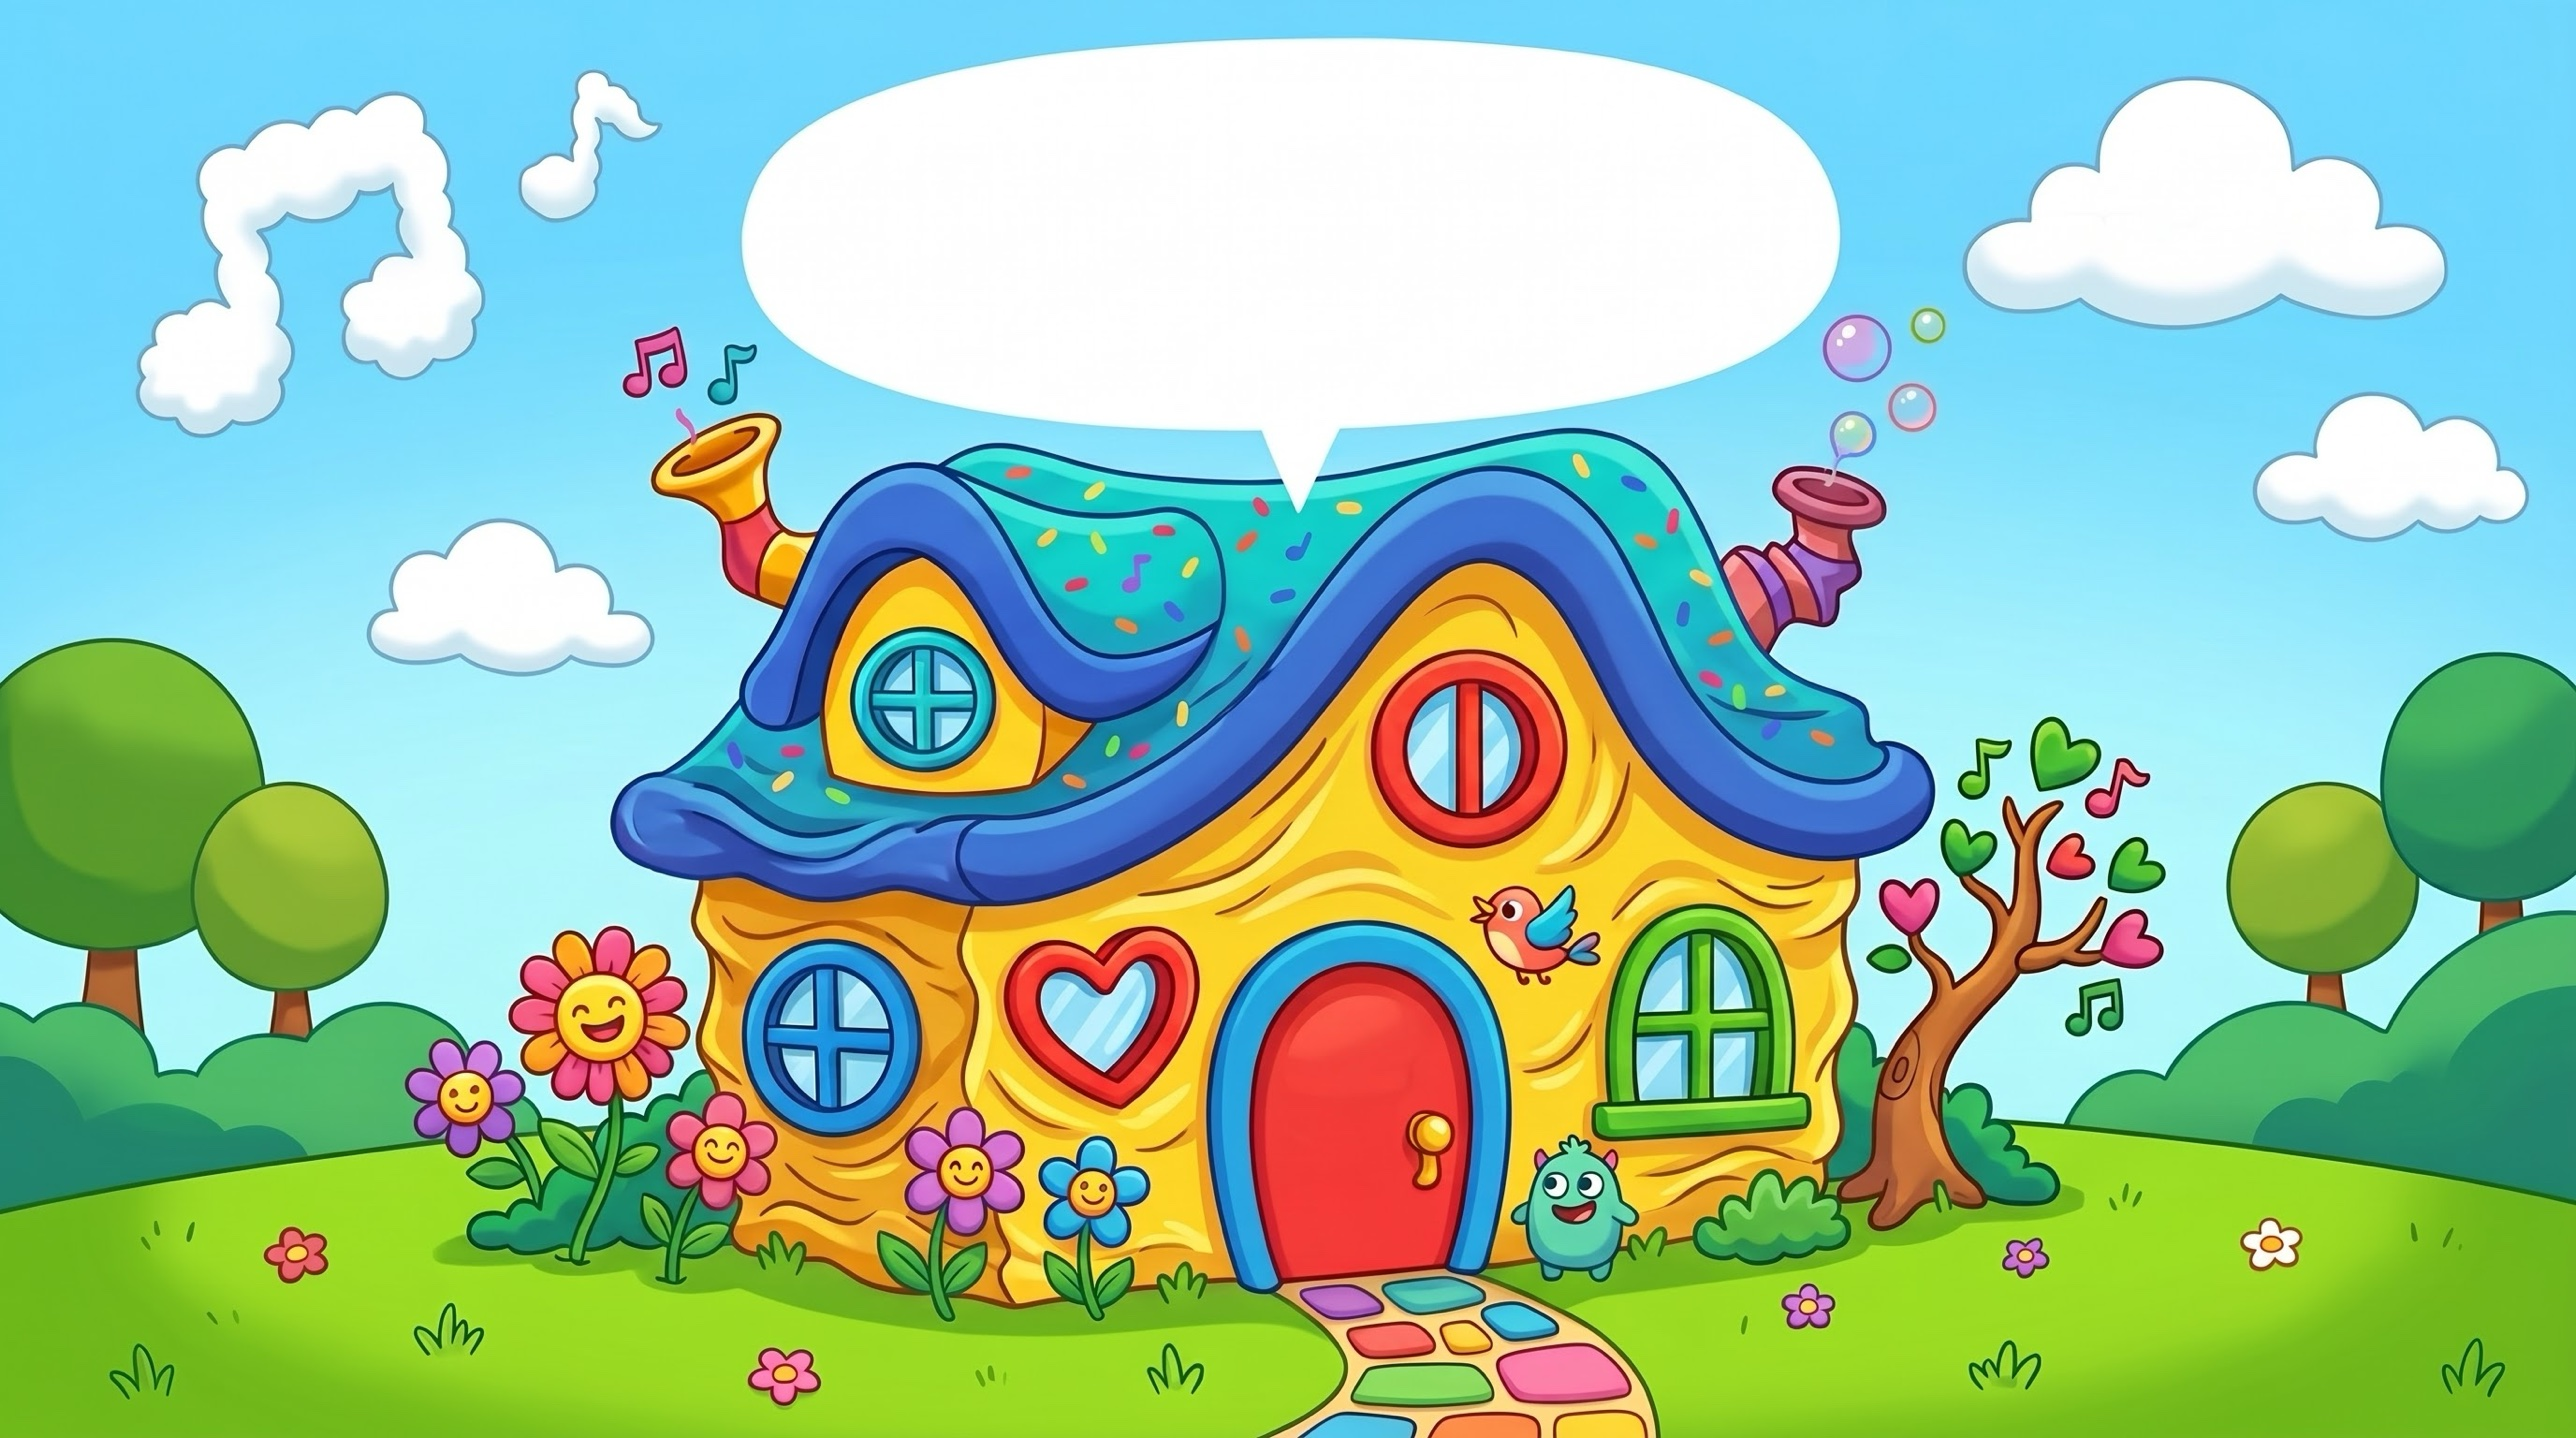
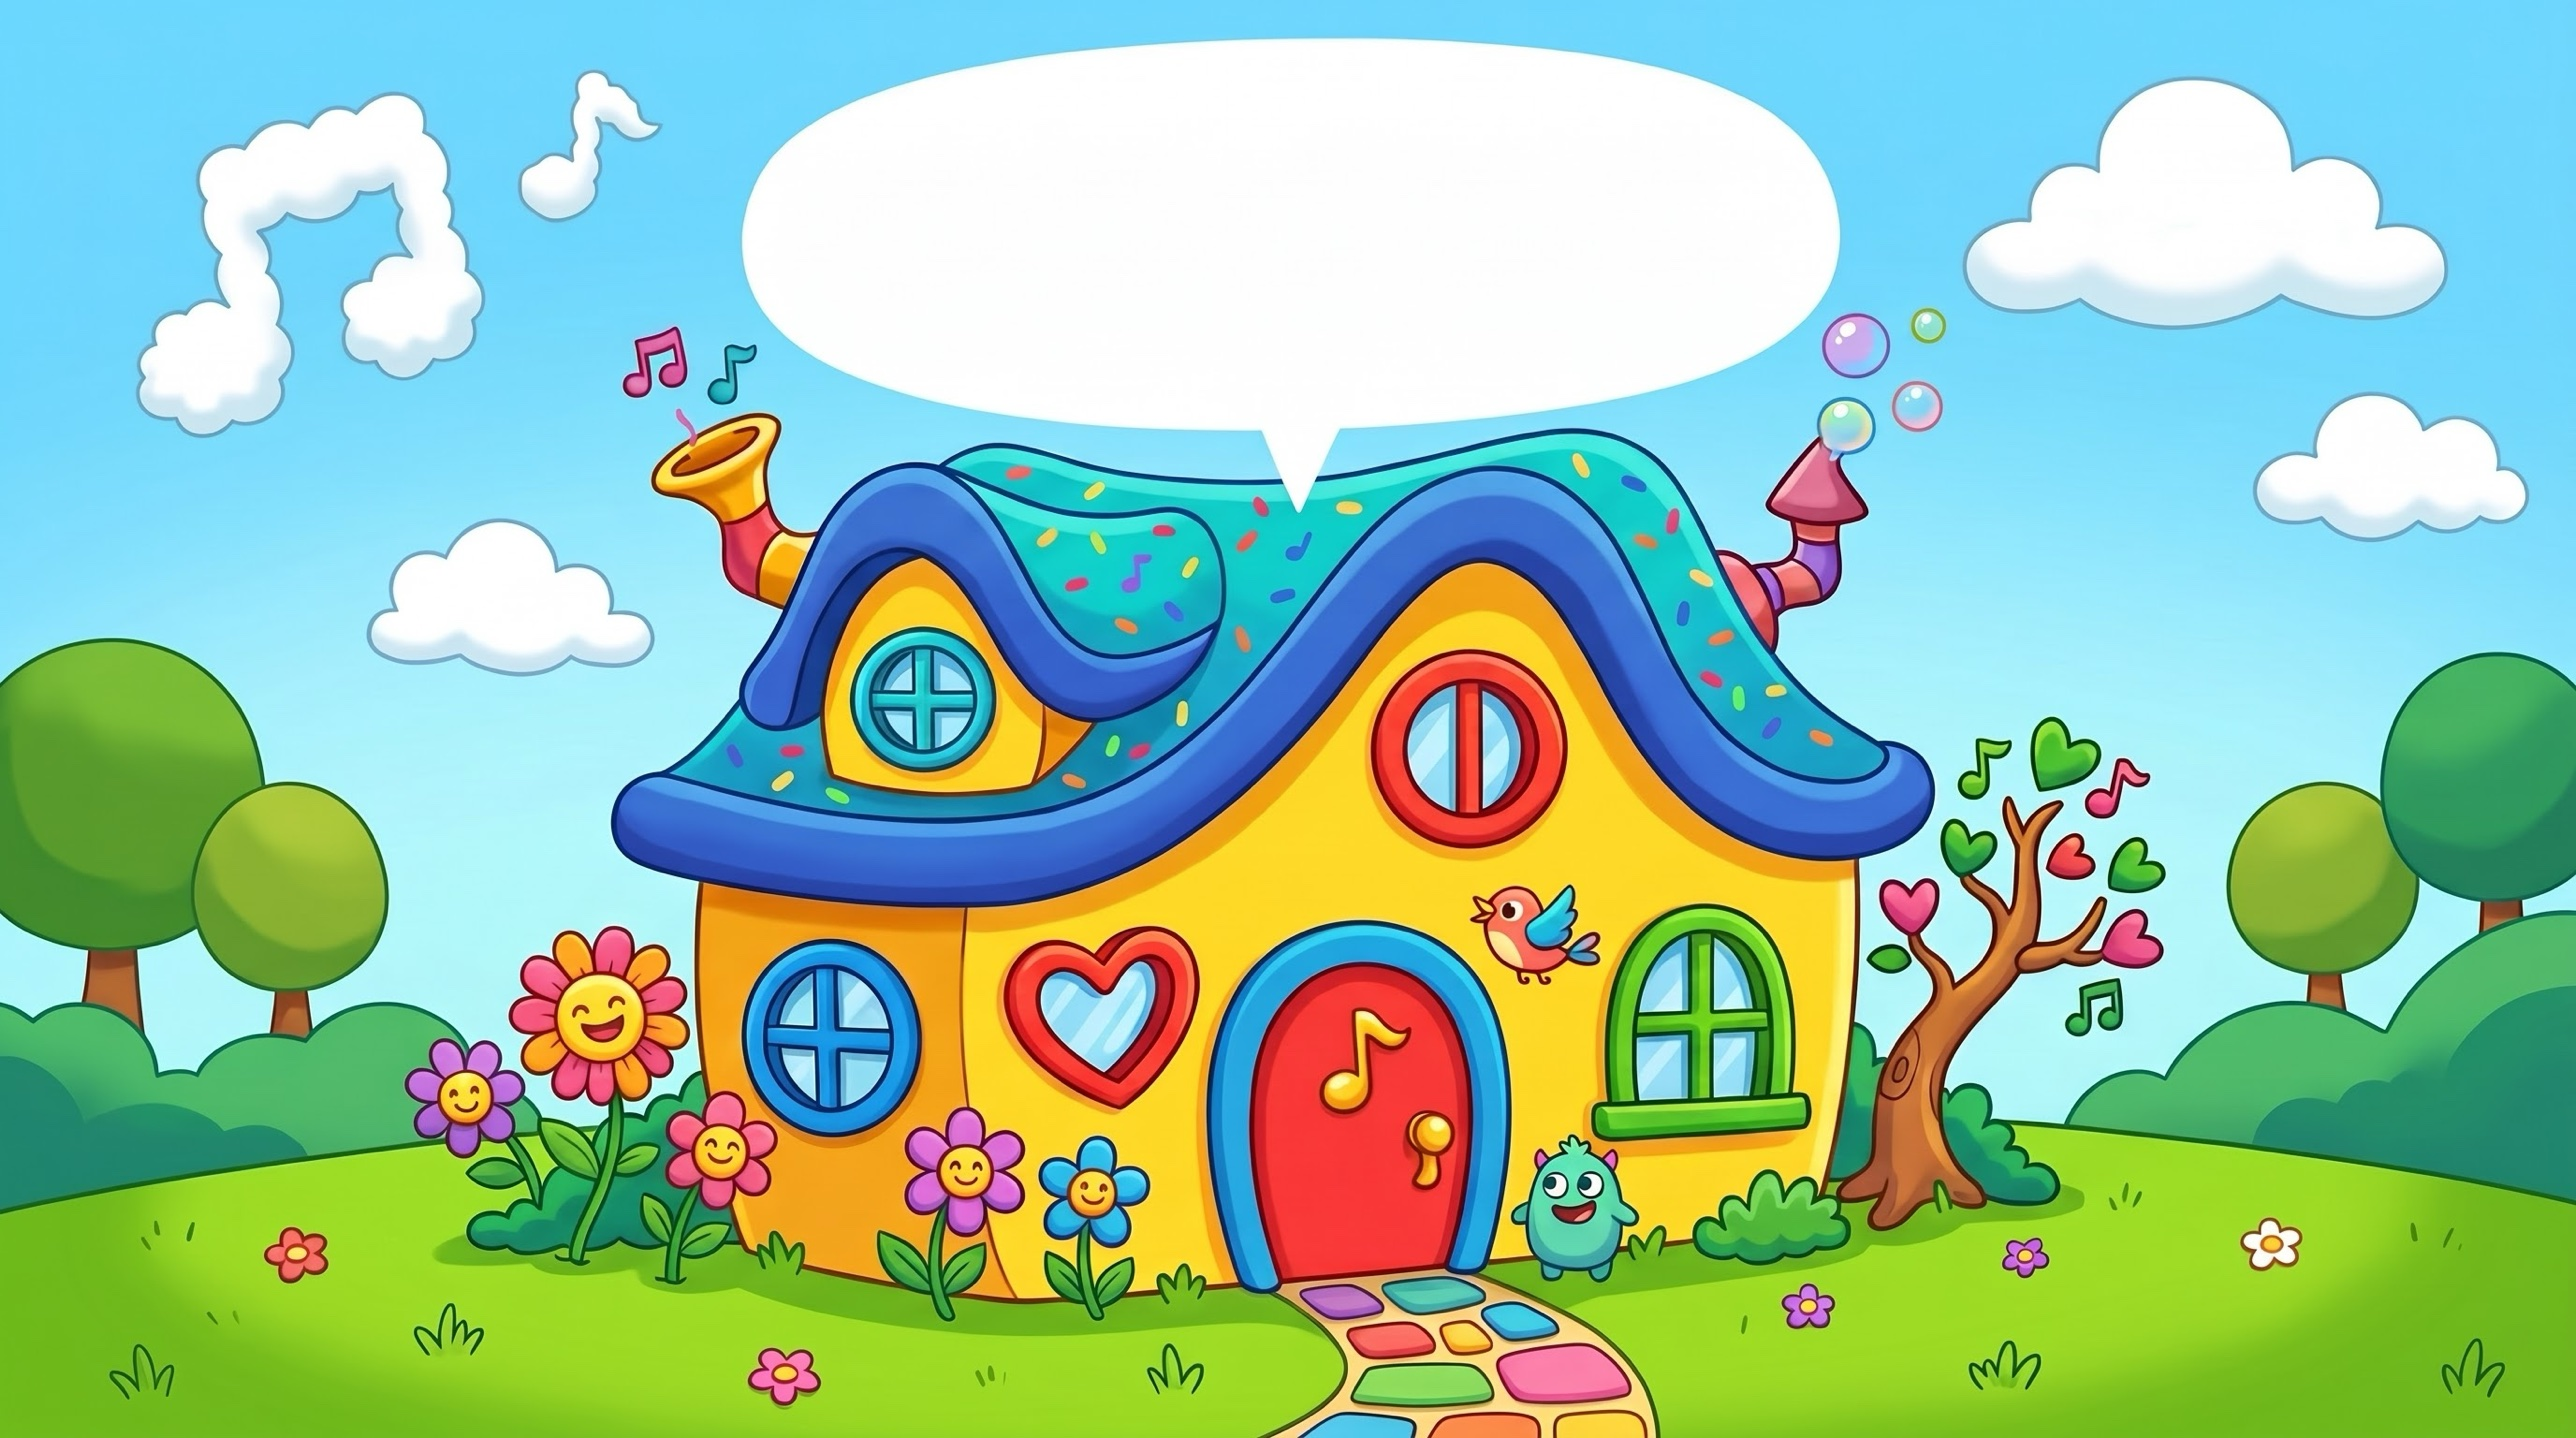
Maison des sons : respiration fluide, pose « froissée » écartée
La pose 1 avait un mur à la texture froissée : à chaque passage la maison
semblait se déformer. Elle est retirée ; restent les 3 poses aux murs
lisses, quasi identiques (seuls notes, traits et confettis bougent),
alternées un peu plus calmement (650 ms). La vraie respiration vient
désormais d'un gonflement continu très léger (±1,5 %, ancré au sol,
sinusoïdal) — fluide, sans à-coup.

Claude-Session: https://claude.ai/code/session_01MuK8ZWeH8YiigUE4AMcK3J

diff --git a/desktop/MesPremiersJeux/Games/SoundHouseGame.cs b/desktop/MesPremiersJeux/Games/SoundHouseGame.cs
@@ -240,9 +240,20 @@ namespace MesPremiersJeux.Games
             Canvas.SetTop(image, 0);
             _canvas.Children.Add(image);
 
-            // LA MAISON RESPIRE : s'il y a plusieurs poses (maison-sons-1..N),
-            // on les alterne doucement en aller-retour (1 2 3 4 3 2...) —
-            // les notes, bulles et petits traits bougent, la scène est vivante.
+            // LA RESPIRATION : un très léger gonflement continu, ancré au sol —
+            // fluide et sans à-coup (les poses, elles, ne changent que les
+            // petits détails : notes, traits, confettis).
+            image.RenderTransformOrigin = new Point(0.5, 1);
+            var bsc = new ScaleTransform(1, 1);
+            image.RenderTransform = bsc;
+            var breath = new DoubleAnimation(1, 1.015, TimeSpan.FromSeconds(2.2))
+            { AutoReverse = true, RepeatBehavior = RepeatBehavior.Forever, EasingFunction = new SineEase { EasingMode = EasingMode.EaseInOut } };
+            bsc.BeginAnimation(ScaleTransform.ScaleXProperty, breath);
+            bsc.BeginAnimation(ScaleTransform.ScaleYProperty, breath);
+
+            // Les poses quasi identiques (maison-sons-1..N, murs LISSES — la
+            // pose « froissée » a été écartée) alternent en aller-retour pour
+            // animer notes, bulles et petits traits.
             var frames = new List<ImageSource>();
             for (int i = 1; i <= 8; i++)
             {
@@ -253,8 +264,8 @@ namespace MesPremiersJeux.Games
             if (frames.Count >= 2)
             {
                 int step = 0;
-                int cycle = 2 * frames.Count - 2;
-                var beat = new DispatcherTimer { Interval = TimeSpan.FromMilliseconds(550) };
+                int cycle = Math.Max(2, 2 * frames.Count - 2);
+                var beat = new DispatcherTimer { Interval = TimeSpan.FromMilliseconds(650) };
                 beat.Tick += (s, e) =>
                 {
                     if (!image.IsLoaded) { beat.Stop(); return; } // scène quittée
